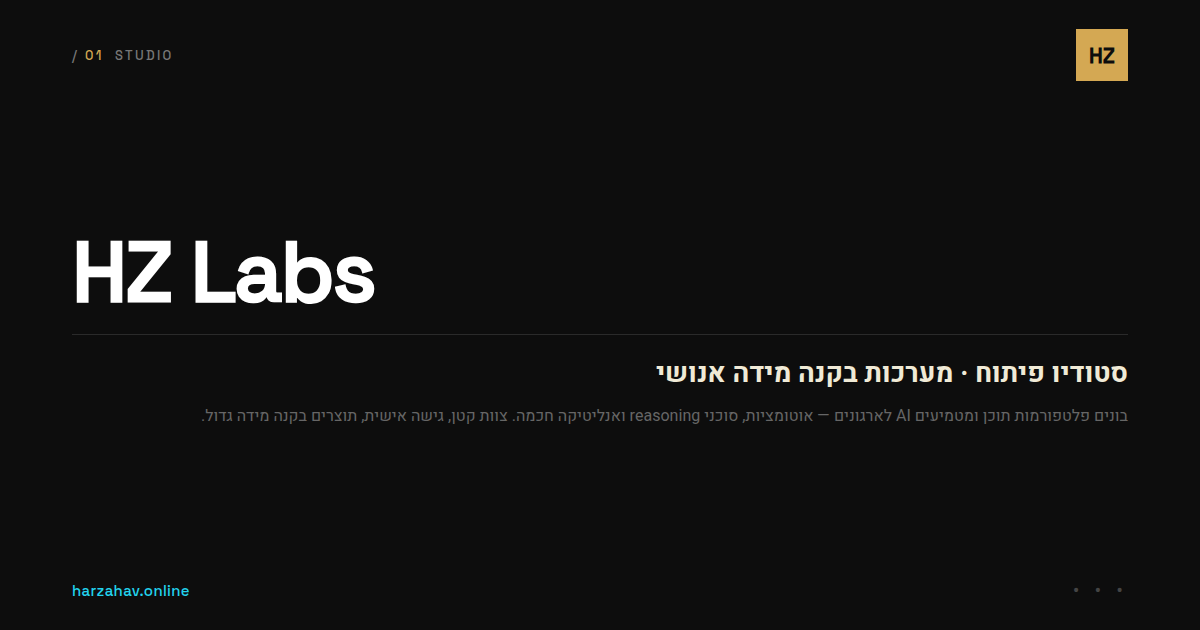
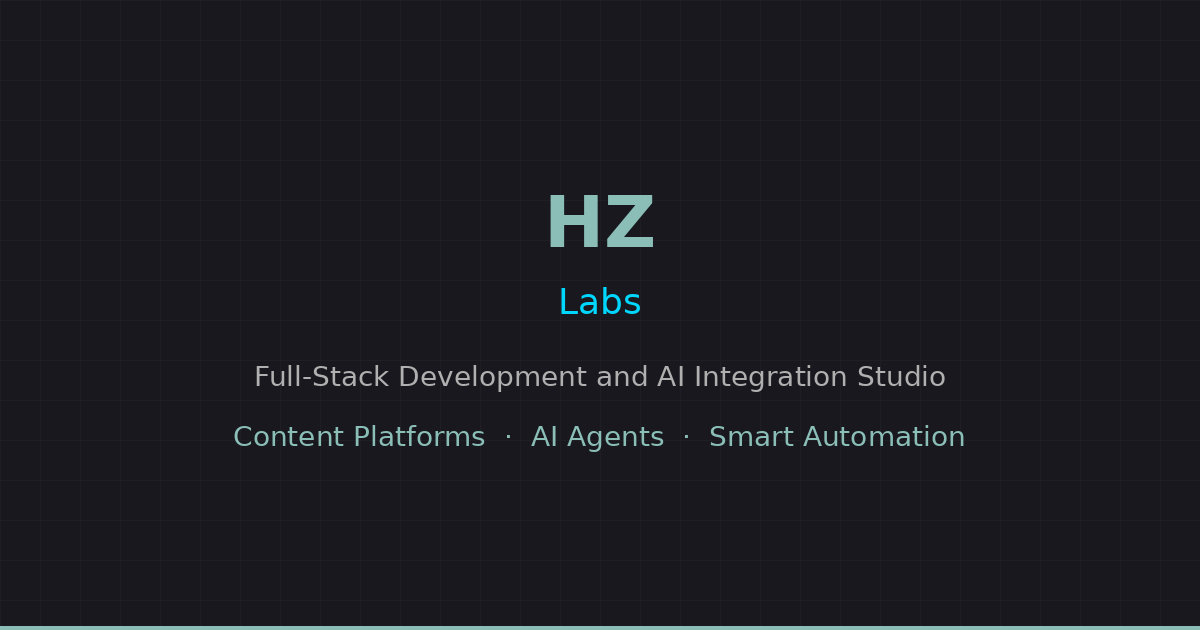
Merge SEO/AI metadata from main and regenerate og-image with pi.dev aesthetic

diff --git a/landing_page.html b/landing_page.html
@@ -4,11 +4,98 @@
   <meta charset="UTF-8">
   <meta name="viewport" content="width=device-width, initial-scale=1.0">
   <title>HZ Labs | סטודיו פיתוח Full-Stack ואינטגרציית AI</title>
-  <meta name="description" content="סטודיו פיתוח HZ Labs בונה פלטפורמות תוכן, פורטלי לקוחות ומערכות AI. אוטומציות חכמות, סוכני reasoning, פיתוח מלא — צרו קשר לייעוץ ראשוני.">
+  <meta name="description" content="סטודיו פיתוח HZ Labs בונה פלטפורמות תוכן, פורטלי לקוחות ומערכות AI לארגונים ועמותות. אוטומציות חכמות, סוכני reasoning, ואנליטיקה — מהאפיון ועד הייצור. צרו קשר לייעוץ ראשוני.">
+  <meta name="keywords" content="סטודיו פיתוח, פיתוח אתרים, AI לארגונים, אוטומציות, פלטפורמות תוכן, פורטל לקוחות, פיתוח Full-Stack, מערכות AI, סוכני AI, אינטגרציות API">
+  <meta name="author" content="HZ Labs">
+  <meta name="robots" content="index, follow">
   <link rel="canonical" href="https://harzahav.online/">
   <link rel="icon" type="image/png" sizes="32x32" href="favicon-32x32.png">
   <link rel="icon" type="image/png" sizes="16x16" href="favicon-16x16.png">
   <link rel="shortcut icon" href="favicon-32x32.png">
+
+  <!-- Open Graph -->
+  <meta property="og:type"        content="website">
+  <meta property="og:url"         content="https://harzahav.online/">
+  <meta property="og:title"       content="HZ Labs — סטודיו פיתוח · מערכות בקנה מידה אנושי">
+  <meta property="og:description" content="סטודיו פיתוח HZ Labs בונה פלטפורמות תוכן, פורטלי לקוחות ומערכות AI. אוטומציות חכמות, סוכני reasoning, פיתוח מלא — צרו קשר לייעוץ ראשוני.">
+  <meta property="og:image"       content="https://harzahav.online/og-image.png">
+  <meta property="og:image:width" content="1200">
+  <meta property="og:image:height" content="630">
+  <meta property="og:image:alt"   content="HZ Labs — סטודיו פיתוח">
+  <meta property="og:locale"      content="he_IL">
+
+  <!-- Twitter Card -->
+  <meta name="twitter:card"        content="summary_large_image">
+  <meta name="twitter:title"       content="HZ Labs — סטודיו פיתוח · מערכות בקנה מידה אנושי">
+  <meta name="twitter:description" content="סטודיו פיתוח HZ Labs בונה פלטפורמות תוכן, פורטלי לקוחות ומערכות AI. אוטומציות חכמות, סוכני reasoning, פיתוח מלא.">
+  <meta name="twitter:image"       content="https://harzahav.online/og-image.png">
+
+  <!-- JSON-LD structured data for search engines and AI agents -->
+  <script type="application/ld+json">
+  {
+    "@context": "https://schema.org",
+    "@graph": [
+      {
+        "@type": "Organization",
+        "@id": "https://harzahav.online/#organization",
+        "name": "HZ Labs",
+        "url": "https://harzahav.online",
+        "logo": "https://harzahav.online/og-image.png",
+        "description": "סטודיו פיתוח לבניית פלטפורמות תוכן ואינטגרציות AI לארגונים — אוטומציות, סוכני reasoning, אנליטיקה חכמה ופיתוח מלא מהאפיון ועד הייצור.",
+        "email": "labs@har-zahav.com",
+        "areaServed": "IL",
+        "knowsLanguage": ["he", "en"],
+        "sameAs": [
+          "https://www.linkedin.com/in/shayharzahav"
+        ],
+        "founder": {
+          "@type": "Person",
+          "name": "Shay Har-Zahav"
+        }
+      },
+      {
+        "@type": "WebSite",
+        "@id": "https://harzahav.online/#website",
+        "url": "https://harzahav.online",
+        "name": "HZ Labs",
+        "publisher": { "@id": "https://harzahav.online/#organization" },
+        "inLanguage": "he"
+      },
+      {
+        "@type": "WebPage",
+        "@id": "https://harzahav.online/#webpage",
+        "url": "https://harzahav.online",
+        "name": "HZ Labs — סטודיו פיתוח · מערכות בקנה מידה אנושי",
+        "description": "בונים פלטפורמות תוכן ומטמיעים AI לארגונים — אוטומציות, סוכני reasoning ואנליטיקה חכמה. צוות קטן, גישה אישית, תוצרים בקנה מידה גדול.",
+        "isPartOf": { "@id": "https://harzahav.online/#website" },
+        "about": { "@id": "https://harzahav.online/#organization" },
+        "inLanguage": "he"
+      },
+      {
+        "@type": "ProfessionalService",
+        "@id": "https://harzahav.online/#service",
+        "name": "HZ Labs",
+        "provider": { "@id": "https://harzahav.online/#organization" },
+        "serviceType": "Software Development Studio",
+        "description": "Full-stack web platform development and AI integration for organizations — automation workflows, reasoning agents, smart analytics, content platforms, and API integrations.",
+        "areaServed": "IL",
+        "hasOfferCatalog": {
+          "@type": "OfferCatalog",
+          "name": "Development & AI Services",
+          "itemListElement": [
+            { "@type": "Offer", "itemOffered": { "@type": "Service", "name": "AI Automation Workflows", "description": "Intelligent pipelines that detect, classify, and act without manual intervention" } },
+            { "@type": "Offer", "itemOffered": { "@type": "Service", "name": "AI Reasoning Agents", "description": "LLM-based decision engines that replace repetitive human judgment" } },
+            { "@type": "Offer", "itemOffered": { "@type": "Service", "name": "Smart Analytics Dashboards", "description": "Real-time organizational insights surfaced automatically from data" } },
+            { "@type": "Offer", "itemOffered": { "@type": "Service", "name": "Content & Media Platforms", "description": "Video streaming, live events, tiered access, and subscription systems" } },
+            { "@type": "Offer", "itemOffered": { "@type": "Service", "name": "Customer Portals & Subscription Systems" } },
+            { "@type": "Offer", "itemOffered": { "@type": "Service", "name": "API Integrations", "description": "Connecting CRM, email, forms, databases, and existing tools" } }
+          ]
+        }
+      }
+    ]
+  }
+  </script>
+
   <link rel="preconnect" href="https://fonts.googleapis.com">
   <link rel="preconnect" href="https://fonts.gstatic.com" crossorigin>
   <link href="https://fonts.googleapis.com/css2?family=Heebo:wght@300;400;500;600;700;800&family=JetBrains+Mono:wght@400;500;600&display=swap" rel="stylesheet">
